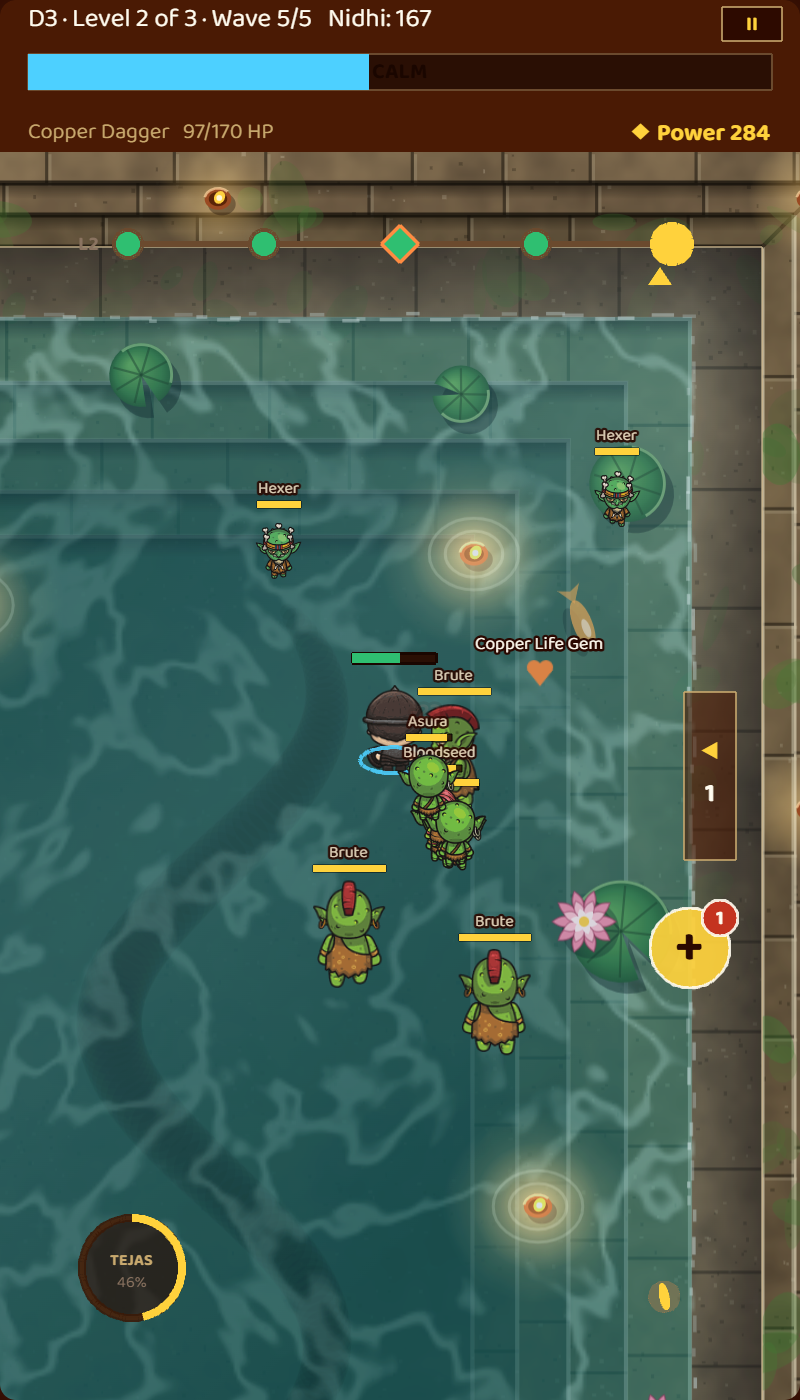
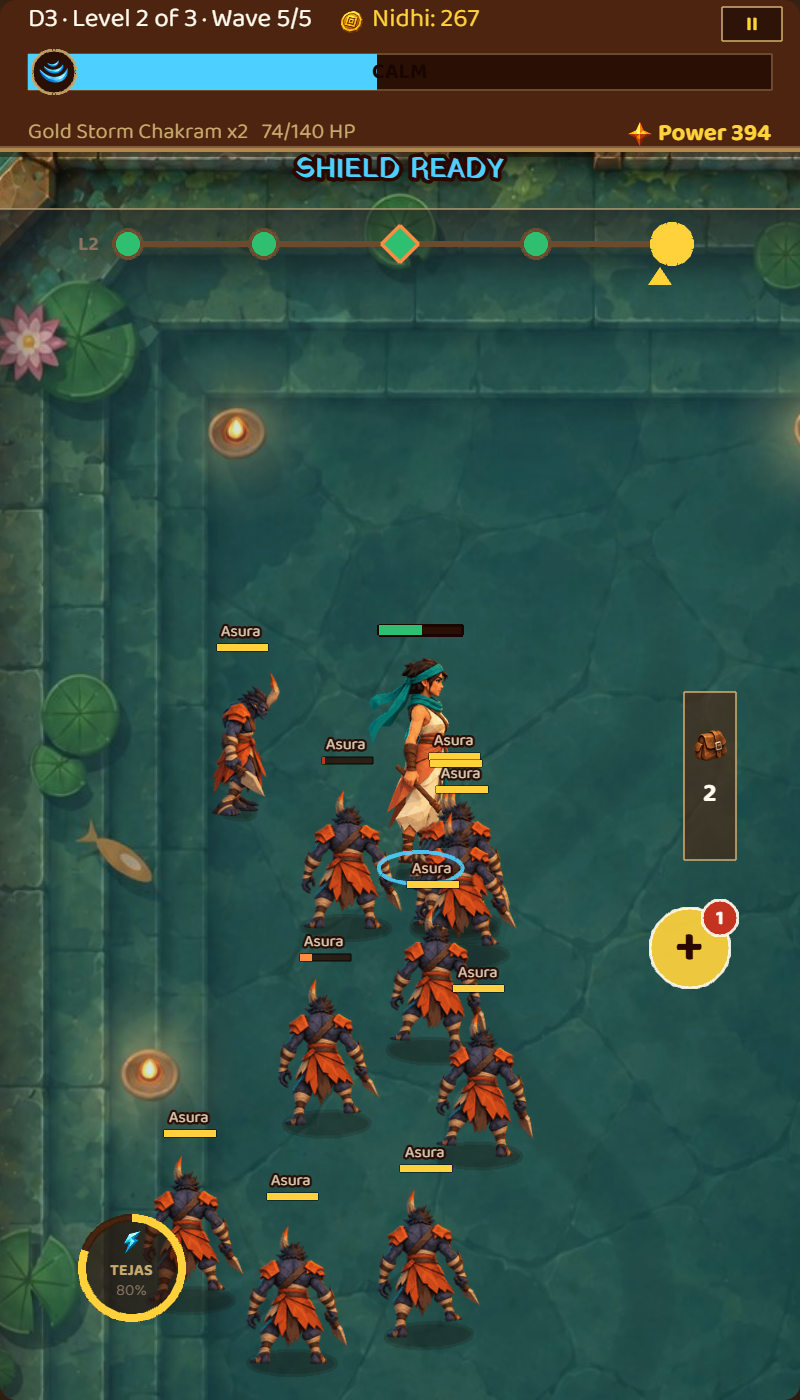
The store's pictures from build 0.22, and how the page goes up
Five screenshots, the GIF and the cover taken again from the 0.22 package,
with the founder's cast, floors and icons (the old ones were from 2026-10-10).
itch-page.md: the files as they are now, and the plan agreed on 2026-10-14:
a draft page shared by link with five outside players, then public.

diff --git a/docs/itch-page.md b/docs/itch-page.md
@@ -1,6 +1,6 @@
 # The itch.io page: what to upload, what to paste, what to tick
 
-Prepared 2026-10-10 for build 0.9 and rebuilt the same day as 0.13 with the teaching pauses and the free rides closed (launch track L9, `design-document.md` §1.2). Everything
+Prepared 2026-10-10 for build 0.9 and rebuilt the same day as 0.13 with the teaching pauses and the free rides closed (launch track L9, `design-document.md` §1.2). **Made again on 2026-10-14 from build 0.22, Version Beta: the zip, the five screenshots, the GIF and the cover, all showing the founder's cast, floors and icons.** Everything
 here is ready to use except where it says otherwise. The upload itself is the founder's:
 creating the itch.io account and signing in cannot be done for them.
 
@@ -13,18 +13,35 @@ creating the itch.io account and signing in cannot be done for them.
 | A mid-range Android (L8) | Founder | The wide arena has only run on an iPhone 16 Pro Max |
 | The security pass (L11) | Claude, just before the upload | `pre-launch-security-checklist.md` |
 
+## 0. How it goes up (agreed 2026-10-14)
+
+The founder's plan: the page goes up first where only invited people can open it, and the
+five outside players (P11, `design-document.md` §1.1) are sent its link. Their feedback
+comes through the in-game form and itch.io's comments. Then it goes public.
+
+1. The founder creates the page as a draft and uploads the zip (§2).
+2. The checks of §5, on the draft page, on a phone.
+3. Visibility set so that only people with the link can open it (itch.io's restricted
+   setting, or a draft's secret link: whichever the page offers when it is made).
+4. The link goes to five people who have never seen the game.
+5. Once their answers are read and anything urgent is fixed (a new zip, the same page),
+   Visibility: Public.
+
+The name (L1) should be final before step 1: the page's address is made from it, and
+cannot be changed later without breaking every link sent.
+
 ## 1. The files
 
 | File | What it is | Where it goes |
 |---|---|---|
-| `dist/anantarya-0.15-itch.zip` | The game: 90 files, 2.9 MB. Made by `python tools/build-itch.py` | Uploads |
+| `dist/anantarya-0.22-itch.zip` | The game: 127 files, 9.55 MB. Made by `python tools/build-itch.py` | Uploads |
 | `store/itch/cover-draft.png` | Cover, 630 by 500. **A draft: it carries the working title** | Cover image |
 | `store/itch/1-title.png` | The title screen, the well part filled | Screenshots, in this order |
-| `store/itch/2-drowned-steps.png` | A fight on level 2 | |
-| `store/itch/3-hoard-guardian.png` | The Hoard Guardian's cleave on level 1 | |
-| `store/itch/4-vritra.png` | Vritra's ring slam on level 3 | |
+| `store/itch/2-drowned-steps.png` | A pack of Asura on level 2, the flooded landing | |
+| `store/itch/3-hoard-guardian.png` | The Hoard Guardian under his dome, slams landing, on level 1 | |
+| `store/itch/4-vritra.png` | Tejas (fire) bursting round Vritra on level 3 | |
 | `store/itch/5-boons.png` | Choosing a boon | |
-| `store/itch/gameplay.gif` | Five seconds of a level 1 fight, 240 by 420, 2.6 MB | In the description, above the first line |
+| `store/itch/gameplay.gif` | Five seconds of a level 1 fight, 240 by 420, 1.8 MB | In the description, above the first line |
 
 The zip holds the game page as `index.html`, the sprites and sounds, the engine and the
 two typefaces with their licences, and a credits file. It does not hold the music, which
